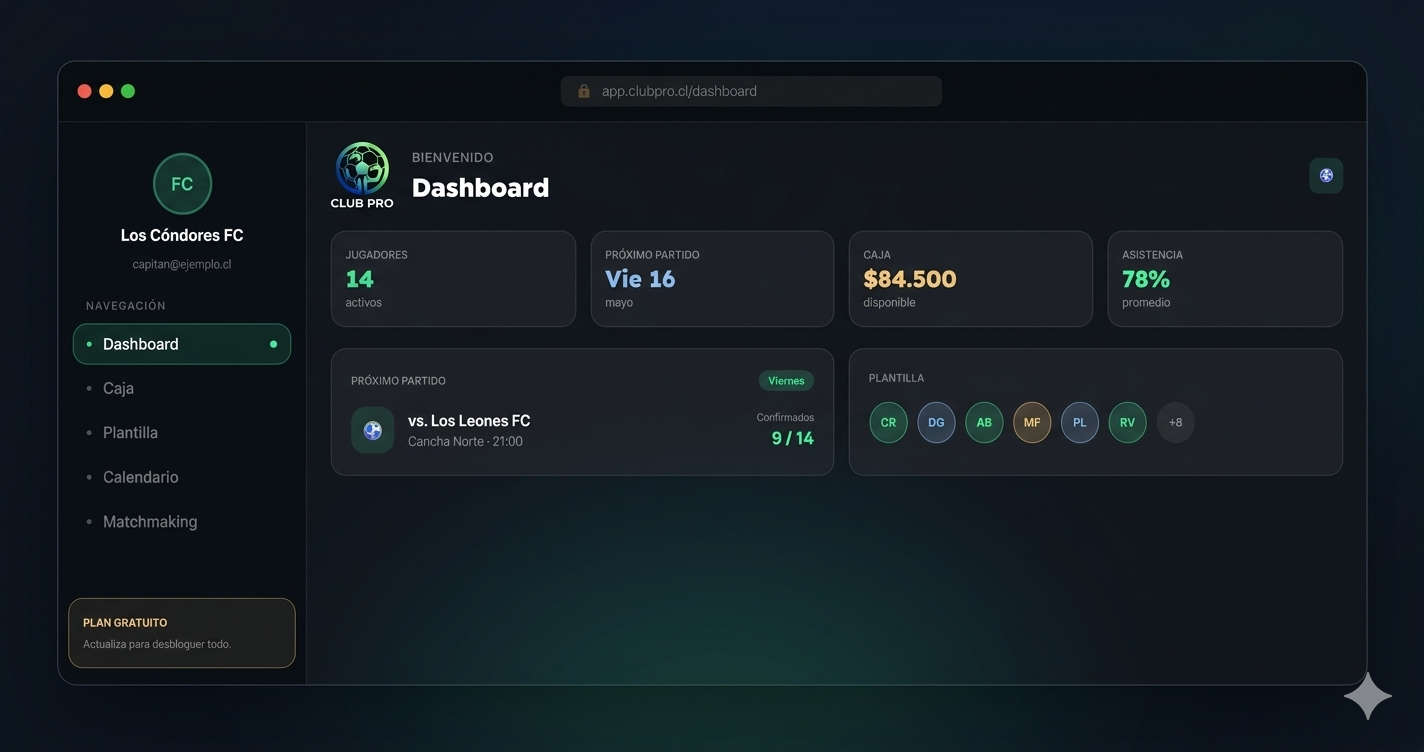
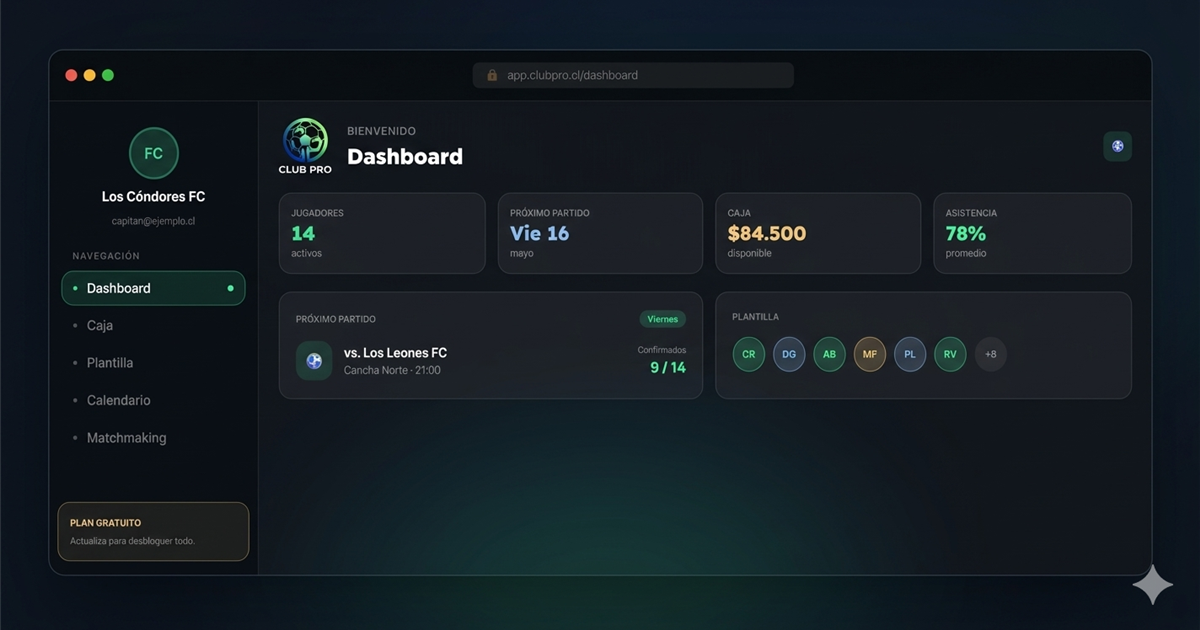
Add social sharing preview metadata

diff --git a/index.html b/index.html
@@ -4,23 +4,28 @@
     <meta charset="UTF-8" />
     <link rel="icon" type="image/svg+xml" href="/favicon.svg" />
     <meta name="viewport" content="width=device-width, initial-scale=1.0" />
-    <title>Club Pro - Gestión de Fútbol 7</title>
+    <title>MiClubPro - Gestion de Futbol 7</title>
+    <meta name="description" content="Organiza tu equipo de futbol 7 como un profesional. Asistencia, caja, matchmaking y votacion MVP en un solo lugar." />
+    <link rel="canonical" href="https://miclubpro.cl/" />
 
     <!-- Open Graph / WhatsApp preview -->
     <meta property="og:type" content="website" />
     <meta property="og:url" content="https://miclubpro.cl/" />
-    <meta property="og:title" content="Club Pro · Gestión de Fútbol 7" />
-    <meta property="og:description" content="Organiza tu equipo de fútbol 7 como un profesional. Asistencia, caja, matchmaking y votación MVP en un solo lugar." />
+    <meta property="og:title" content="MiClubPro - Gestion de Futbol 7" />
+    <meta property="og:description" content="Organiza tu equipo de futbol 7 como un profesional. Asistencia, caja, matchmaking y votacion MVP en un solo lugar." />
     <meta property="og:image" content="https://miclubpro.cl/og-image.png" />
+    <meta property="og:image:secure_url" content="https://miclubpro.cl/og-image.png" />
+    <meta property="og:image:type" content="image/png" />
     <meta property="og:image:width" content="1200" />
     <meta property="og:image:height" content="630" />
+    <meta property="og:image:alt" content="MiClubPro, gestion profesional para equipos de futbol 7" />
     <meta property="og:locale" content="es_CL" />
     <meta property="og:site_name" content="MiClubPro" />
 
-    <!-- WhatsApp usa estas también -->
+    <!-- Twitter/X and WhatsApp compatible preview -->
     <meta name="twitter:card" content="summary_large_image" />
-    <meta name="twitter:title" content="Club Pro · Gestión de Fútbol 7" />
-    <meta name="twitter:description" content="Organiza tu equipo de fútbol 7 como un profesional. Asistencia, caja, matchmaking y votación MVP en un solo lugar." />
+    <meta name="twitter:title" content="MiClubPro - Gestion de Futbol 7" />
+    <meta name="twitter:description" content="Organiza tu equipo de futbol 7 como un profesional. Asistencia, caja, matchmaking y votacion MVP en un solo lugar." />
     <meta name="twitter:image" content="https://miclubpro.cl/og-image.png" />
 
     <link rel="preconnect" href="https://fonts.googleapis.com">